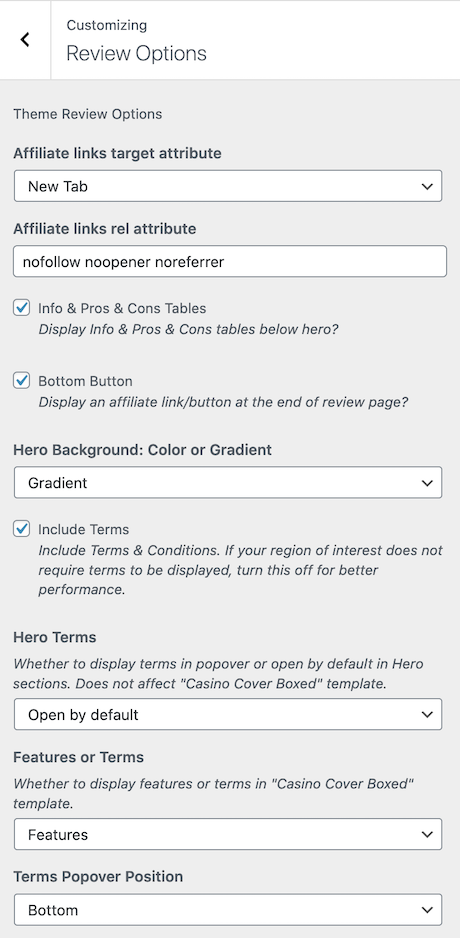
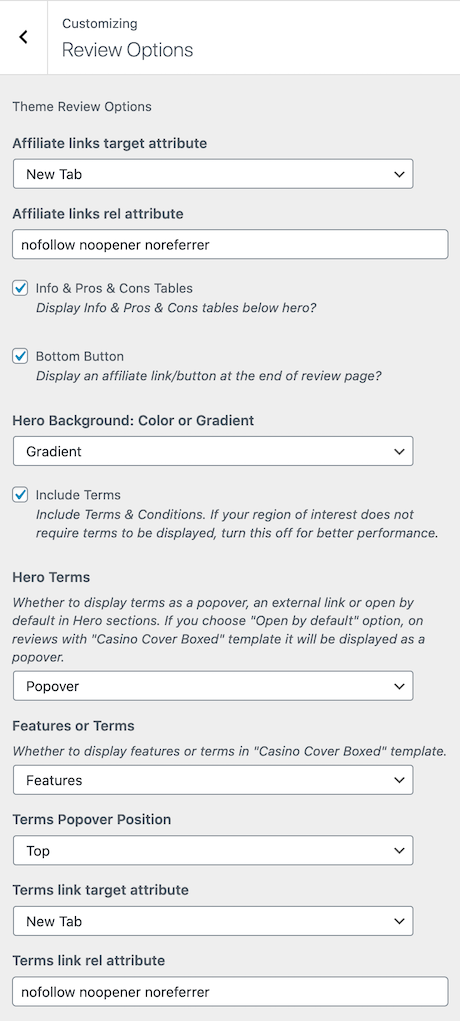
spinoko 1.0.5

diff --git a/docs/spinoko/blocks/index.html b/docs/spinoko/blocks/index.html
@@ -766,6 +766,8 @@
 <p>In the content editor a new table edit section will appear. Click <strong>Add Casino</strong> to add as many casinos as you want.
 Select the style from the dropdown menu and whether to lazy load images or not, which if you don't have any particular reason to turn off is better for performance to leave it on.</p>
 
+<p>Casino Table block offers you multiple styles and options. You can display tables with default or compact layout, and you can display terms as a popover, as a link or as a plain text.</p>
+
 <p>You can also enable <strong>table sorting</strong> for your tables regardless of their styles. It will add 5 buttons on top of the table to sort by: Name, Year, Rating, Bonus, Bonus %. You can customize the button texts in <strong>Customizer</strong> &#8594; <strong>Strings</strong> and you can change which buttons to display by following <a href="/docs/spinoko/how-to#how-to-change-table-sorting-keys">these steps</a>.</p>
 
 <p><img src="/assets/images/spinoko/spinoko-blocks-table-admin.png" alt="spinoko-blocks-table-admin" /></p>
@@ -783,6 +785,8 @@ Select the style from the dropdown menu and whether to lazy load images or not, 
 <p>To add a new gird simply click on the <strong>+</strong> (Add block) sign and select <strong>Casinos Grid</strong> in <strong>Spinoko Blocks</strong> section.</p>
 
 <p>In the content editor a new gird edit section will appear. Click <strong>Add Casino</strong> to add as many casinos. Select the number of columns and whether to lazy load images or not, which if you don't have any particular reason to turn off is better for performance to leave it on.</p>
+
+<p>Casino Grid block offers you multiple options for terms and conditions, you can display them as a popover, as a link or as a plain text.</p>
 
 <p><img src="/assets/images/spinoko/spinoko-blocks-grid-admin.png" alt="spinoko-blocks-grid-admin" /></p>
 
@@ -857,7 +861,7 @@ Select the style from the dropdown menu and whether to lazy load images or not, 
 
         <nav id="js-page-menu" class="page-menu hidden py-8 lg:w-48 lg:max-w-sidebar lg:block sticky" style="top: 4rem;">
             <h4 class="mb-8 font-bold text-grey text-lg pb-1 border-b inline-block">
-                SPINOKO v1.0.4
+                SPINOKO v1.0.5
             </h4>
 
             <div id="page-menu-wrapper" class="mb-8"></div>

diff --git a/docs/spinoko/customizations/index.html b/docs/spinoko/customizations/index.html
@@ -808,6 +808,14 @@ In admin dashboard visit <strong>Appearance</strong> &#8594; <strong>Customize</
 
 <p><img src="/assets/images/spinoko/spinoko-customizer-reviews.png" alt="Theme Customizations" /></p>
 
+<h3>Page Options</h3>
+
+<p>You can adjust here different options regarding different types of pages.</p>
+
+<p><strong>Archive pages</strong>: You can set a template for archive pages such as category, tag, author pages, as well as choose a style and word count to display single posts on the mentioned pages.</p>
+
+<p><img src="/assets/images/spinoko/spinoko-customizer-pages.png" alt="Theme Customizations" /></p>
+
 <h3>Strings</h3>
 
 <p>There are different strings such as button or review link anchor texts, headings and labels, etc. that you may want to change. You can find all of them in <strong>Strings</strong> section.</p>
@@ -823,7 +831,7 @@ In admin dashboard visit <strong>Appearance</strong> &#8594; <strong>Customize</
 
         <nav id="js-page-menu" class="page-menu hidden py-8 lg:w-48 lg:max-w-sidebar lg:block sticky" style="top: 4rem;">
             <h4 class="mb-8 font-bold text-grey text-lg pb-1 border-b inline-block">
-                SPINOKO v1.0.4
+                SPINOKO v1.0.5
             </h4>
 
             <div id="page-menu-wrapper" class="mb-8"></div>

diff --git a/docs/spinoko/navigation/index.html b/docs/spinoko/navigation/index.html
@@ -1074,7 +1074,7 @@ require_once get_stylesheet_directory() . '/spinoko-additional-navigation.php';
 
         <nav id="js-page-menu" class="page-menu hidden py-8 lg:w-48 lg:max-w-sidebar lg:block sticky" style="top: 4rem;">
             <h4 class="mb-8 font-bold text-grey text-lg pb-1 border-b inline-block">
-                SPINOKO v1.0.4
+                SPINOKO v1.0.5
             </h4>
 
             <div id="page-menu-wrapper" class="mb-8"></div>

diff --git a/docs/spinoko/widgets/index.html b/docs/spinoko/widgets/index.html
@@ -769,7 +769,7 @@ Or you can use the Customizer, visit <strong>Appearance</strong> &#8594; <strong
 
         <nav id="js-page-menu" class="page-menu hidden py-8 lg:w-48 lg:max-w-sidebar lg:block sticky" style="top: 4rem;">
             <h4 class="mb-8 font-bold text-grey text-lg pb-1 border-b inline-block">
-                SPINOKO v1.0.4
+                SPINOKO v1.0.5
             </h4>
 
             <div id="page-menu-wrapper" class="mb-8"></div>

diff --git a/docs/spinoko/how-to/index.html b/docs/spinoko/how-to/index.html
@@ -822,7 +822,7 @@ add_filter( 'spinoko_table_sorting_keys', 'spinoko__change_table_sort_keys' );
 
         <nav id="js-page-menu" class="page-menu hidden py-8 lg:w-48 lg:max-w-sidebar lg:block sticky" style="top: 4rem;">
             <h4 class="mb-8 font-bold text-grey text-lg pb-1 border-b inline-block">
-                SPINOKO v1.0.4
+                SPINOKO v1.0.5
             </h4>
 
             <div id="page-menu-wrapper" class="mb-8"></div>

diff --git a/docs/spinoko/amp/index.html b/docs/spinoko/amp/index.html
@@ -760,7 +760,7 @@
 
         <nav id="js-page-menu" class="page-menu hidden py-8 lg:w-48 lg:max-w-sidebar lg:block sticky" style="top: 4rem;">
             <h4 class="mb-8 font-bold text-grey text-lg pb-1 border-b inline-block">
-                SPINOKO v1.0.4
+                SPINOKO v1.0.5
             </h4>
 
             <div id="page-menu-wrapper" class="mb-8"></div>

diff --git a/docs/spinoko/casino-page-blocks/index.html b/docs/spinoko/casino-page-blocks/index.html
@@ -786,7 +786,7 @@
 
         <nav id="js-page-menu" class="page-menu hidden py-8 lg:w-48 lg:max-w-sidebar lg:block sticky" style="top: 4rem;">
             <h4 class="mb-8 font-bold text-grey text-lg pb-1 border-b inline-block">
-                SPINOKO v1.0.4
+                SPINOKO v1.0.5
             </h4>
 
             <div id="page-menu-wrapper" class="mb-8"></div>

diff --git a/docs/spinoko/casino-page-templates/index.html b/docs/spinoko/casino-page-templates/index.html
@@ -789,7 +789,7 @@
 
         <nav id="js-page-menu" class="page-menu hidden py-8 lg:w-48 lg:max-w-sidebar lg:block sticky" style="top: 4rem;">
             <h4 class="mb-8 font-bold text-grey text-lg pb-1 border-b inline-block">
-                SPINOKO v1.0.4
+                SPINOKO v1.0.5
             </h4>
 
             <div id="page-menu-wrapper" class="mb-8"></div>

diff --git a/docs/spinoko/child-theme/index.html b/docs/spinoko/child-theme/index.html
@@ -748,7 +748,7 @@
 
         <nav id="js-page-menu" class="page-menu hidden py-8 lg:w-48 lg:max-w-sidebar lg:block sticky" style="top: 4rem;">
             <h4 class="mb-8 font-bold text-grey text-lg pb-1 border-b inline-block">
-                SPINOKO v1.0.4
+                SPINOKO v1.0.5
             </h4>
 
             <div id="page-menu-wrapper" class="mb-8"></div>

diff --git a/docs/spinoko/creating-casino-pages/index.html b/docs/spinoko/creating-casino-pages/index.html
@@ -770,7 +770,7 @@
 
         <nav id="js-page-menu" class="page-menu hidden py-8 lg:w-48 lg:max-w-sidebar lg:block sticky" style="top: 4rem;">
             <h4 class="mb-8 font-bold text-grey text-lg pb-1 border-b inline-block">
-                SPINOKO v1.0.4
+                SPINOKO v1.0.5
             </h4>
 
             <div id="page-menu-wrapper" class="mb-8"></div>

diff --git a/docs/spinoko/index.html b/docs/spinoko/index.html
@@ -772,7 +772,7 @@
 
         <nav id="js-page-menu" class="page-menu hidden py-8 lg:w-48 lg:max-w-sidebar lg:block sticky" style="top: 4rem;">
             <h4 class="mb-8 font-bold text-grey text-lg pb-1 border-b inline-block">
-                SPINOKO v1.0.4
+                SPINOKO v1.0.5
             </h4>
 
             <div id="page-menu-wrapper" class="mb-8"></div>

diff --git a/docs/spinoko/installation/index.html b/docs/spinoko/installation/index.html
@@ -773,7 +773,7 @@
 
         <nav id="js-page-menu" class="page-menu hidden py-8 lg:w-48 lg:max-w-sidebar lg:block sticky" style="top: 4rem;">
             <h4 class="mb-8 font-bold text-grey text-lg pb-1 border-b inline-block">
-                SPINOKO v1.0.4
+                SPINOKO v1.0.5
             </h4>
 
             <div id="page-menu-wrapper" class="mb-8"></div>
